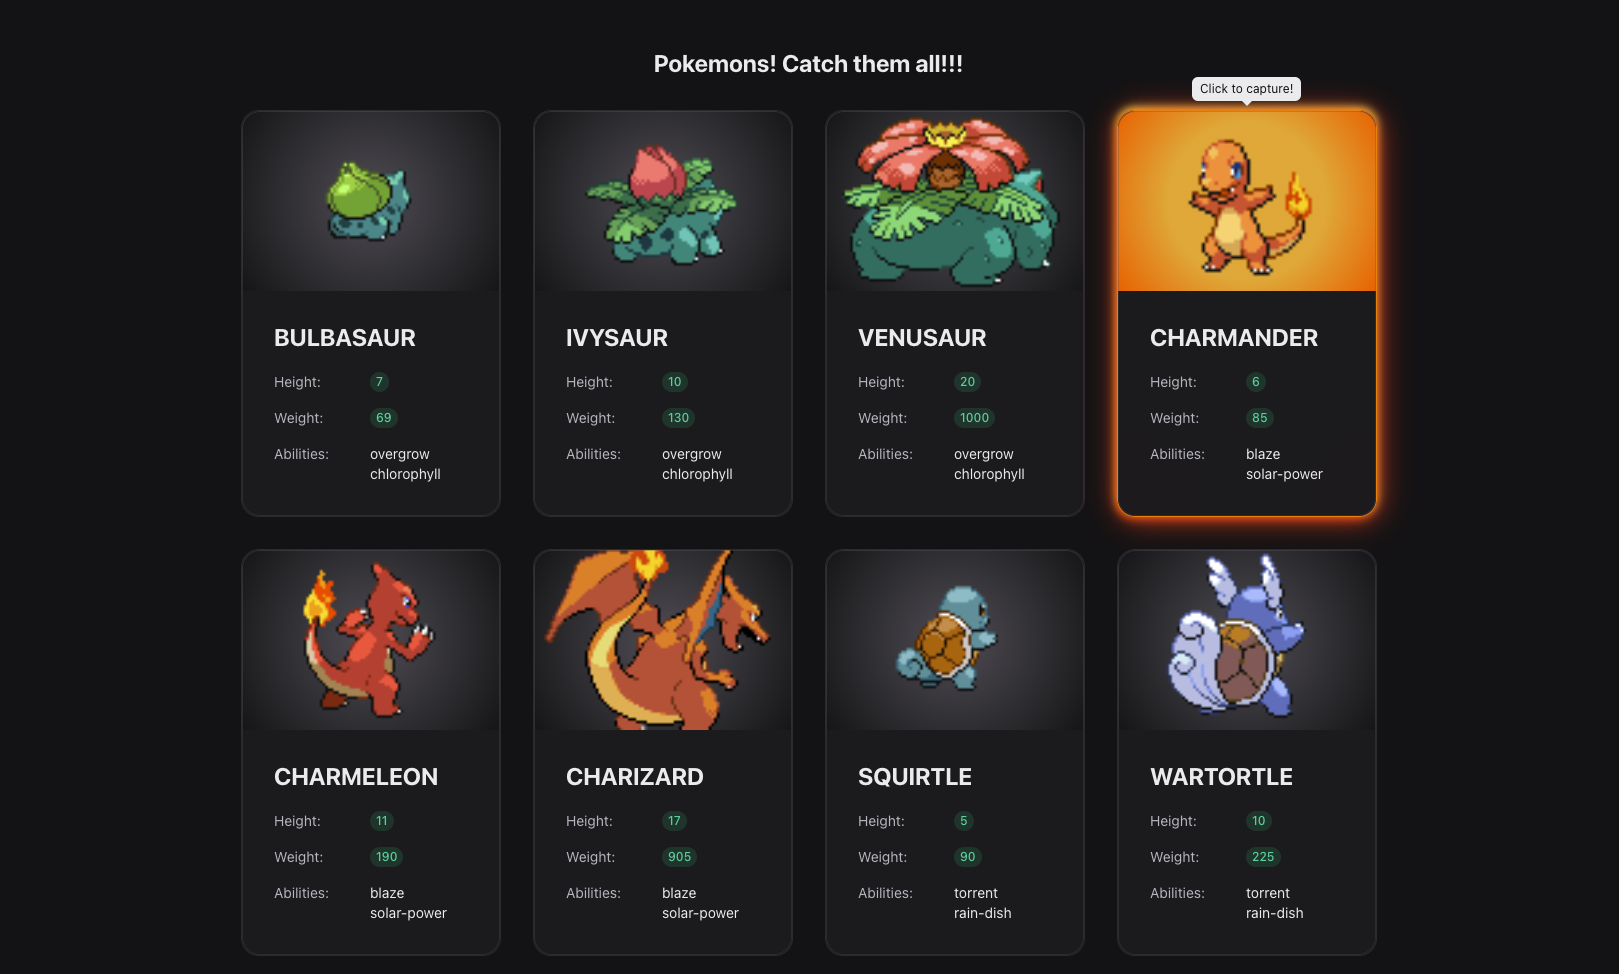
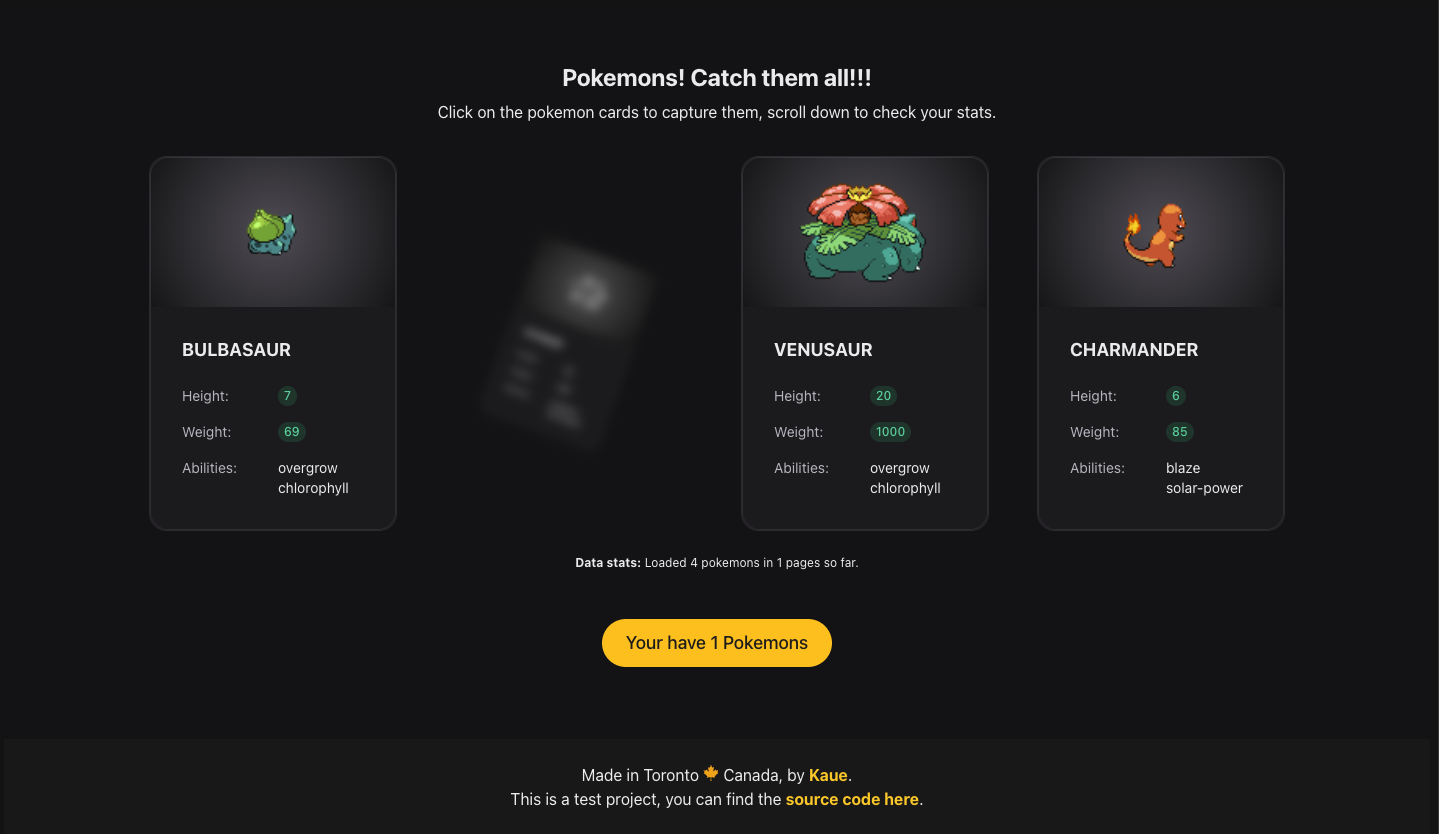
Visual updates, code cleanup

diff --git a/src/components/PokemonCard/PokemonCard.jsx b/src/components/PokemonCard/PokemonCard.jsx
@@ -1,13 +1,11 @@
 import React from 'react'
-import usePokemonInfo from '../hooks/usePokemonInfo'
+import usePokemonInfo from '../../hooks/usePokemonInfo'
 import { Tooltip, Card, Inset, Badge, DataList, Heading, Flex, Spinner, Text, Box } from "@radix-ui/themes";
-import styles from './pokemonInfo.module.scss';
+import styles from './pokemonCard.module.scss';
 
-const PokemonInfo = ({ pokemon, handleCapture, isCaptured }) => {
+const PokemonCard = ({ pokemon, handleCapture, isCaptured }) => {
 
   const {data:pokemonInfoData, error, isLoading} = usePokemonInfo(pokemon.name);
-
-  const cardClass = document.querySelector(".card-" + pokemon.name);
 
   if (error) 
 		return <p>Sorry, there was a problem on usePokemonInfo, check the console - ERR: {error.message}</p>
@@ -22,43 +20,45 @@ const PokemonInfo = ({ pokemon, handleCapture, isCaptured }) => {
         aria-label={`Click to catch ${pokemon.name}`}        
         tabIndex={0}
         className={`${styles.pokemonCard} ${isCaptured ? styles.captured : ""}`} 
-        size={{ initial: '2', sm: '4'}} 
+        size={{ initial: '2', lg: '4'}} 
         height="100%">
-        <Inset clip="padding-box" side="top" pb="current">
+        <Inset clip="border-box" side="top" pb="current">
           {isLoading 
             ? (
-            <Flex align='center' justify='center' width='100%' height='180px'>
-              <Spinner />
+            <Flex align='center' justify='center' width='100%' height='150px'>
+              <Spinner size='3' />
             </Flex>
             ) : ( 
-              <div className={styles.pokemonImgWrapper}>
-                <img
-                  src={pokemonInfoData.sprites?.back_default} 
-                  alt={pokemon.name}
-                  className={styles.mainImage}
-                />
-                <img
-                  src={pokemonInfoData.sprites?.front_default} 
-                  alt={pokemon.name}
-                  className={styles.hoverImage}
-                />
-              </div>
+              pokemonInfoData?.sprites?.back_default && (
+                <div className={styles.pokemonImgWrapper}>
+                  <img
+                    src={pokemonInfoData.sprites?.back_default} 
+                    alt={pokemon.name}
+                    className={styles.mainImage}
+                  />
+                  <img                  
+                    src={pokemonInfoData.sprites?.other.showdown.front_default} 
+                    alt={pokemon.name}
+                    className={styles.hoverImage}
+                  />
+                </div>
+              )
             )
           }
         </Inset>
-        <Heading as='h3' size={{ initial: '2', md: '4'}} mb='5'>{pokemon.name.toUpperCase()}</Heading>
-        <PokemonInfoDataList pokemonInfoData={pokemonInfoData}/>
+        <Heading as='h3' size={{ initial: '2', lg: '4'}} mb={{ initial: '2', lg: '5'}}>{pokemon.name.toUpperCase()}</Heading>
+        <PokemonCardDataList pokemonInfoData={pokemonInfoData}/>
       </Card>   
     </Tooltip>       
     </>
   )
 }
 
-export default PokemonInfo
+export default PokemonCard
 
-const PokemonInfoDataList = ({pokemonInfoData}) => {
+const PokemonCardDataList = ({pokemonInfoData}) => {
   return (
-    <DataList.Root orientation={{ initial: "vertical", sm: "horizontal" }}>
+    <DataList.Root orientation={{ initial: "vertical", lg: "horizontal" }}>
 
       <DataList.Item>
         <DataList.Label minWidth="80px">Height:</DataList.Label>

diff --git a/src/components/PokemonGrid.jsx b/src/components/PokemonGrid.jsx
@@ -1,36 +1,33 @@
 import React, { useEffect, useState } from 'react'
-import PokemonInfo from './PokemonInfo';
-import usePokemonList from '../hooks/usePokemonList';
 import { Grid, Skeleton, Flex, Spinner, Text } from "@radix-ui/themes";
+import { PAGE_SIZE } from '../config/constants'
+import usePokemonList from '../hooks/usePokemonList';
+import PokemonCard from './PokemonCard/PokemonCard';
 import StatsDialog from './StatsDialog';
 
 const PokemonGrid = () => {
 
 	const {data, error, isLoading, fetchNextPage, pages} = usePokemonList();
   const [capturedList, setCapturedList] = useState([]);
-  const skeletons = [1,2,3,4,5,6,7,8,9,10,11,12]
- 
-  const handleCapture = (pokemonName) => {
-    setCapturedList([...capturedList, pokemonName])    
-  } 
+  
+
+  const handleCapture = (pokemonName) => setCapturedList([...capturedList, pokemonName]);
 
   useEffect(() => {
-      if (capturedList.length > 1 && capturedList.length === data.length) {
-        fetchNextPage();
-      }      
+      if (capturedList.length > 1 && capturedList.length === data.length) fetchNextPage();
   }, [capturedList])
 
 	if (error) 
 		return <p>Sorry, there was a problem on usePokemonList, check the console - ERR: {error.message}</p>  
   
   return (
-    <>     
-      <Grid columns={{ initial: '2', sm: '2', md: '3', lg: '4' }} gap={{ initial: '4', sm: '6' }}  width="auto">       
-        {pages < 1 && isLoading && skeletons.map(item => 
-          <Skeleton key={item} width="100%" height="400px" />
+    <>         
+      <Grid columns={{ initial: '2', sm: '2', md: '4', lg: '4' }} gap={{ initial: '4', lg: '8' }}  width="auto">       
+        {pages < 1 && isLoading && Array.from({ length: PAGE_SIZE }, (_, i) => 
+          <Skeleton key={i} width="100%" height="375px" />
         )}
         {data.length > 0 && data.map((pokemon, idx) => 
-          <PokemonInfo 
+          <PokemonCard 
             key={idx} 
             pokemon={pokemon}
             handleCapture={handleCapture}
@@ -39,7 +36,7 @@ const PokemonGrid = () => {
       </Grid>
       
       <Text m='5' as='p' align="center" size='1'>
-        <strong>Data stats:</strong> Loaded {data.length} pokemons in {pages} pages so far.
+        <strong>Data stats:</strong> Loaded {data.length} pokémons in {pages > 1 ? `${pages} pages` : `${pages} page`} so far.
       </Text>
       
       <Flex p='5' align='center' justify='center'>

diff --git a/src/components/StatsDialog.jsx b/src/components/StatsDialog.jsx
@@ -1,40 +1,38 @@
 import React from 'react'
-import { Dialog, Flex, Button, Text, Badge, Link } from "@radix-ui/themes";
+import { Dialog, Flex, Button, Text, Strong } from "@radix-ui/themes";
+import { FaInfoCircle } from "react-icons/fa";
 
 const StatsDialog = ( {capturedList, setCapturedList} ) => {
 
   const pokemonsTotal = capturedList.length;
+  const pokemonsTotalString = pokemonsTotal > 1 ? `${pokemonsTotal} Pokémons` : `${pokemonsTotal} Pokémon`
 
   return (
     <Dialog.Root>
+
       <Dialog.Trigger>
-        <Button size='4' >Your have {pokemonsTotal > 0 
-        ? pokemonsTotal + " Pokemons"
+        <Button size='4' ><FaInfoCircle /> You have {pokemonsTotal > 0 
+        ? pokemonsTotalString
         : "no Pokemons!" }</Button>
       </Dialog.Trigger>
 
       <Dialog.Content maxWidth="450px">
-
         <Dialog.Title mt="3">Your Stats</Dialog.Title>
-
         <Dialog.Description size="3" mt="5">
           {pokemonsTotal === 0 
             ? <Text>You have not captured any pokemons :(</Text>
-            : <Text>You have captured <Badge style={{ verticalAlign: "text-top" }} color="amber" variant="outline" radius="full">{pokemonsTotal}</Badge> Pokemons so far, here is your capture list:</Text>
+            : <Text>You have captured <Strong>{pokemonsTotalString}</Strong> so far, here is your capture list:</Text>
           }          
         </Dialog.Description>
-
         {pokemonsTotal > 0 &&
         <Flex direction="row" wrap="wrap" my='5' align='center' gap="3">
           {capturedList.map((pokemonName, idx) =>
             <Text key={idx} color='gray'>{pokemonName}{idx < pokemonsTotal -1 && ","}</Text>            
           )}
-          <Button variant='soft' size='2' onClick={() => setCapturedList([])}>Release them all!</Button>
+          <Button variant='soft' size='2' onClick={() => setCapturedList([])}>Release them back!</Button>
         </Flex>
         }
-
         <Text as='p' mb="5">Catch them all to load the next batch!</Text>
-
         <Flex gap="3" mt="4" justify="end">
           <Dialog.Close>
             <Button variant="soft" color="gray">
@@ -43,6 +41,7 @@ const StatsDialog = ( {capturedList, setCapturedList} ) => {
           </Dialog.Close>
         </Flex>
       </Dialog.Content>
+      
     </Dialog.Root>
   )
 }

diff --git a/src/hooks/usePokemonList.jsx b/src/hooks/usePokemonList.jsx
@@ -1,26 +1,31 @@
 import axiosInstance, { CanceledError } from '../services/api-service'
-import { useEffect, useState } from 'react'
+import { useCallback, useEffect, useMemo, useState } from 'react'
+import { PAGE_SIZE } from '../config/constants'
 
 const usePokemonList = () => {
 
   const [data, setData] = useState([])
   const [error, setError] = useState(null)
   const [isLoading, setIsLoading] = useState(false)
-  const [params, setParams] = useState({limit: 12, offset: 0})
+  const [params, setParams] = useState({limit: PAGE_SIZE, offset: 0})
   const [pages, setPages] = useState(0)
 
-  useEffect(() => {
+  const fetchNextPage = useCallback(() => {
+    setParams(prev => ({limit: prev.limit, offset: prev.offset + prev.limit}))
+  }, []);
+
+  useEffect(() => { 
 
     setIsLoading(true);
     const controller = new AbortController()
-  
+
     axiosInstance.get("pokemon", { signal: controller.signal, params })
       .then(res => {
         setTimeout(() => { 
           setPages(prev => prev + 1)
-          setData(prev => [...prev, ...res.data.results])
+          setData(prev => [...prev, ...res.data.results])          
           setIsLoading(false); 
-        }, 1000) // Creates suspense, accomplishes nothing :)
+        }, 500) // Creates suspense, accomplishes nothing, but can you see the skeletons? :P
       }) 
       .catch(err => { 
         if (err instanceof CanceledError) return        
@@ -32,10 +37,6 @@ const usePokemonList = () => {
       return () => controller.abort()
 
   }, [params] )
-
-  const fetchNextPage = () => {
-    setParams(prev => ({limit: prev.limit, offset: prev.offset + prev.limit}))
-  }
 
   return {data, error, isLoading, fetchNextPage, pages}
 }

diff --git a/src/components/PokemonCard/pokemonCard.module.scss b/src/components/PokemonCard/pokemonCard.module.scss
@@ -1,6 +1,6 @@
 .pokemonCard {
   cursor: url(/public/poke_ball.png) 50 50, auto;
-  border: 1px solid #323035;
+  border: 0px;
   transition: box-shadow 0.3s ease-out;
   transition: filter 0.7s ease-out;
   transition: transform 0.7s ease-out;
@@ -11,7 +11,7 @@
     -1px -2px 0px -5px #FFF212; 
   &:hover, 
   &:focus {
-    border: 1px solid rgb(255, 128, 0);
+    border: 0px;
     box-shadow: 
        2px  2px 30px -2px #FF1F1F, 
        1px -3px 10px -2px #FFE264, 
@@ -25,14 +25,14 @@
       }      
       .hoverImage {
         opacity: 1;
-        transform: scale(1.2);
+        transform: scale(1);
       }          
-    }            
+    }
   }
   .pokemonImgWrapper {
     position: relative;
     width: 100%;
-    height: 180px;
+    height: 150px;
     overflow: hidden;
     background: radial-gradient(circle, #5a575f 0%, #151517 100%);
     .mainImage {
@@ -41,7 +41,7 @@
       left: 0;
       width: 100%;
       height: 100%;
-      object-fit: cover;
+      object-fit: contain;
       transition: all 0.5s ease-in-out;
       opacity: 1;
       transform: scale(1);
@@ -52,7 +52,7 @@
       left: 0;
       width: 100%;
       height: 100%;
-      object-fit: cover;
+      object-fit: contain;
       opacity: 0;
       transition: all 0.3s ease-in-out;
       transform: scale(0);

diff --git a/src/App.jsx b/src/App.jsx
@@ -1,4 +1,4 @@
-import React from 'react'
+import React, {useState} from 'react'
 import { Container, Heading, Text } from "@radix-ui/themes";
 import PokemonGrid from "./components/PokemonGrid"
 import Footer from './components/Footer';
@@ -8,9 +8,9 @@ const App = () => {
 		<>				
 			<Container 
 				p={{ initial: '2', md: '8' }} 
-				size={{ xs: '1', sm: '2', md: '3', lg: '4' }}>
-					<Heading align='center' my='2' as='h1'>Pokemons! Catch them all!!!</Heading>
-					<Text as='p' mb='6' align='center'>Click on the pokemon cards to capture them, scroll down to check your stats.</Text>
+				size={{ xs: '1', sm: '1', md: '3', lg: '4' }}>
+					<Heading align='center' my='2' as='h1'>Pokémon! Catch them all!!!</Heading>
+					<Text as='p' mb='6' align='center'>Click on the Pokémon cards to capture them. Once you’ve captured them all, more will be loaded for you automatically.</Text>
 					<PokemonGrid />
 			</Container>
 			<Footer />

diff --git a/src/hooks/usePokemonInfo.jsx b/src/hooks/usePokemonInfo.jsx
@@ -17,7 +17,7 @@ const usePokemonInfo = (name) => {
         setTimeout(() => { 
           setData(res.data)
           setIsLoading(false)
-        }, 500) // Creates suspense, accomplishes nothing :)
+        }, 500) // Creates suspense, accomplishes nothing, but can you see the spinners? :P
       })
       .catch(err => {
         if (err instanceof CanceledError) return        

diff --git a/src/main.jsx b/src/main.jsx
@@ -3,7 +3,7 @@ import ReactDOM from 'react-dom/client'
 import "@radix-ui/themes/styles.css";
 import { Theme } from "@radix-ui/themes";
 import App from './App.jsx'
-import './index.css'
+import './main.css'
 
 
 ReactDOM.createRoot(document.getElementById('root')).render(

diff --git a/src/main.css b/src/main.css
@@ -1,0 +1,1 @@
+button { cursor: pointer !important; }

diff --git a/src/config/constants.js b/src/config/constants.js
@@ -1,0 +1,1 @@
+export const PAGE_SIZE = 4;

diff --git a/README.md b/README.md
@@ -1,15 +1,15 @@
 # POKEMONS
 
-A small test project that began as an interview assignment and evolved into a Pokemon Game. Catch all Pokemons to load the next batch, or click load more to keep browsing ;)
+A small test project that began as an interview assignment and evolved into a Pokémon Card Game. Catch all Pokémon cards to load the next batch, it goes on forever...
 
 <img src="public/screen1.png" alt="App Screenshot of home page" width="100%" />
 
 ## This project uses:
 
 - **Vite**
-- **React** 
+- **React** with custom hooks and basic state management.
 - **Axios**
-- **Radix UI**
+- **Radix UI** along with with a custom CSS module for the card effects.
 
 ## Live Demo
 
